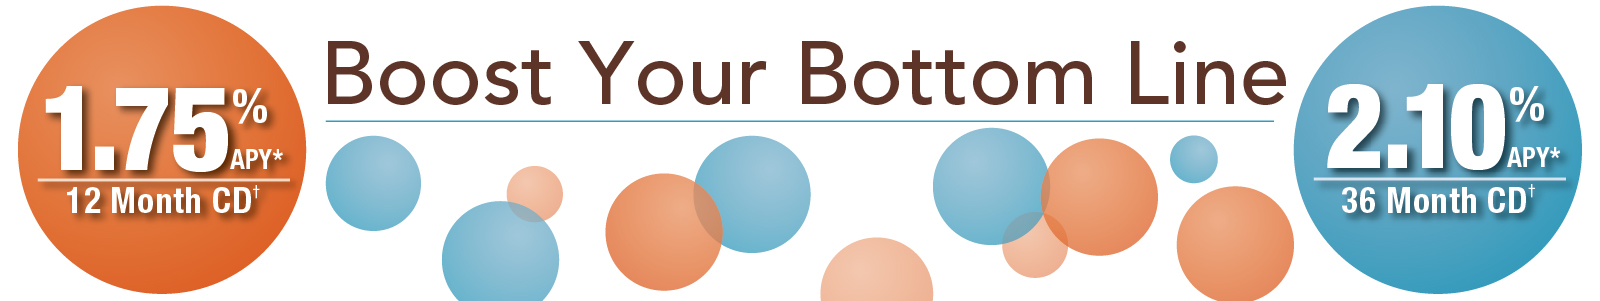
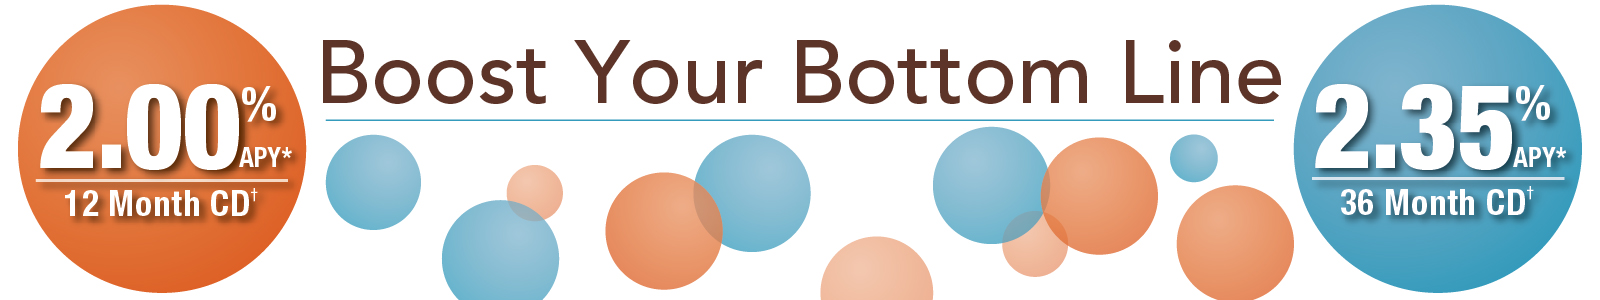
Changed CD Rate

diff --git a/savings.html b/savings.html
@@ -194,7 +194,7 @@
               </div>
             </div><!-- row -->
             <div class="row spacer">
-              <p class="small para-margin"><sup>*</sup>Annual Percentage Yield (APY) <sup>†</sup>Promotional rates effective as of 4/13/18 and guaranteed for the term of the account. Offer limited to $10,000.00 or more of new money not currently on deposit within last 30 days with CIBM Bank. Minimum opening deposit of $2,500.00 and a maximum of $250,000.00. Withdrawals made prior to maturity may be subject to an early withdrawal penalty. Offer not available in combination with any other offer.</p>
+              <p class="small para-margin"><sup>*</sup>Annual Percentage Yield (APY) <sup>†</sup>Promotional rates effective as of 5/15/18 and guaranteed for the term of the account. Offer limited to $10,000.00 or more of new money not currently on deposit within last 30 days with CIBM Bank. Minimum opening deposit of $2,500.00 and a maximum of $250,000.00. Withdrawals made prior to maturity may be subject to an early withdrawal penalty. Offer not available in combination with any other offer.</p>
             </div>
             <div class="row spacer">
               <div class="col-md-6">
